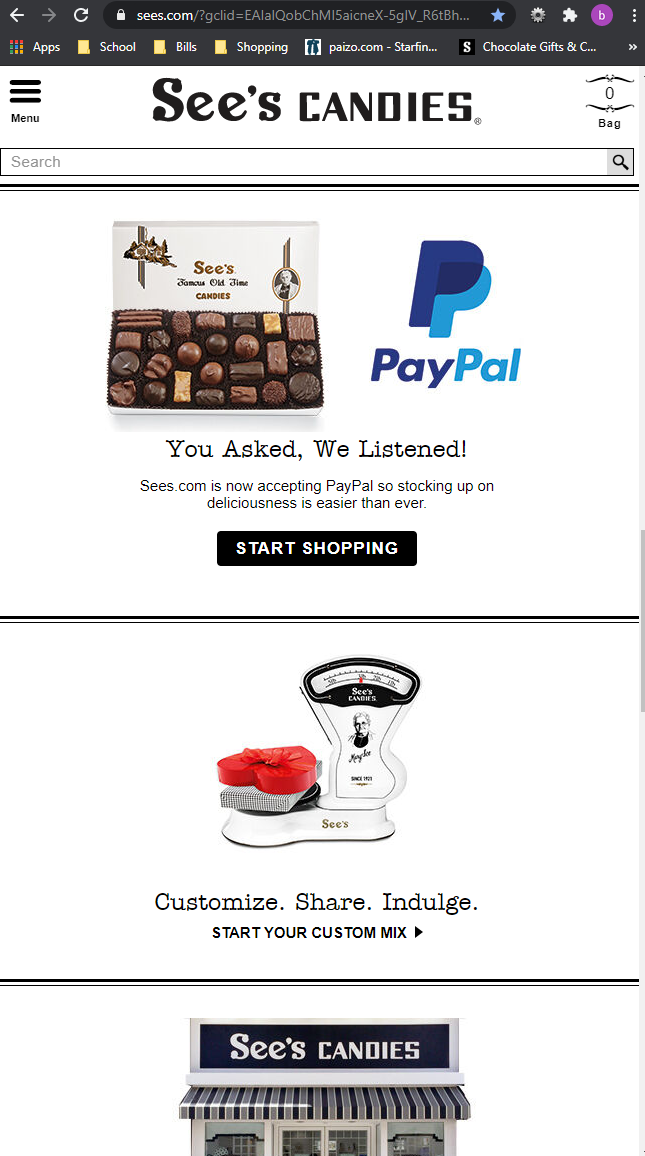
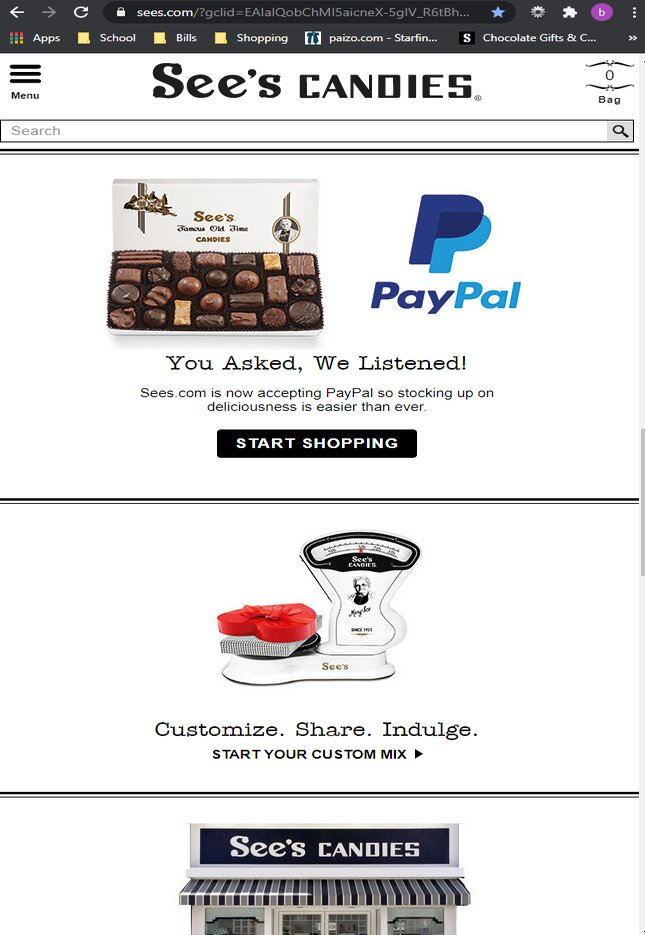
fixed scaling issue and added media query

diff --git a/Lesson-2/css/design-principle-stylesheet.css b/Lesson-2/css/design-principle-stylesheet.css
@@ -6,8 +6,7 @@ body {
 main {
     display: grid;
     grid-template-columns: 1fr 1fr 1fr;
-    grid-gap: 2.25em;
-    padding-bottom: 50px;
+    grid-gap: 15px;
     max-width: 1440px;
     margin: 0 auto;
     padding: 0 15px;
@@ -38,7 +37,7 @@ h2 {
     text-align: center;
 }
 
-.main-cont-1 {
+.main-cont-1, .main-cont-2, .main-cont-3 {
     /*grid-column: 1;
     grid-row: 2/10;*/
     border: 5px solid #0c2f5c;
@@ -46,23 +45,7 @@ h2 {
     background-color: white;
 }
 
-.main-cont-2 {
-    /*grid-column: 2;
-    grid-row: 2/10;*/
-    border: 5px solid #0c2f5c;
-    /*border-radius: 10px;*/
-    background-color: white;
-}
-
-.main-cont-3 {
-    /*grid-column: 3;
-    grid-row: 2/10;*/
-    border: 5px solid #0c2f5c;
-    /*border-radius: 10px;*/
-    background-color: white;
-}
-
-.cont-1-para-1, .cont-3-para-1 {
+.cont-1-para-1, .cont-3-para-1, .cont-2-para-1 {
     text-align: center;
     font-size: 20px;
     font-family: 'Merriweather', serif;
@@ -74,17 +57,6 @@ h2 {
     padding-top: 15px;
 }
 
-.cont-2-para-1 {
-    text-align: center;
-    font-size: 20px;
-    font-family: 'Merriweather', serif;
-    border-bottom:  10px double #EEE;
-    background-color: #0c2f5c;
-    color: white;
-    margin: 0px;
-    padding: 5px;
-}
-
 .cont-1-para-2, .cont-2-para-2, .cont-3-para-2 {
     text-align: left;
     font-size: 14px;
@@ -92,6 +64,7 @@ h2 {
     color: black;
     padding: 5px;
     margin: none;
+    border-top:5px solid #0c2f5c;
 }
 
 ul {
@@ -117,22 +90,14 @@ li a:link, li a:visited {
 li a:hover {
     color: #EEE;
 }
+  /*****    Redo the pictures at the exact some size. *****/
+  
+.cont-1-img, .cont-2-img, .cont-3-img {
+    display: block;
+    margin: auto;
+    width: 75%;
+}
 
-.cont-1-img, .cont-3-img {
-    height: 500px;
-    width: 300px;
-    padding-left: 10px;
-    padding-right: 10px;
-    padding-bottom: 5px;
-    border-bottom: 5px solid #0c2f5c;
-}
-.cont-2-img {
-    height: 466px;
-    padding-left: 10px;
-    padding-right: 10px;
-    padding-bottom:40px;
-    border-bottom: 5px solid #0c2f5c;
-}
 
 footer a, footer a:link, footer a:visited, footer a:hover, footer a:active, footer a:focus {
     color: white;
@@ -151,17 +116,17 @@ footer {
 
 footer p.legal {
     margin-bottom: 9px;
-    font-size: .9em;
+    font-size: 14px;
 }
 
 footer p.updatehistory {
     color: orange;
-    font-size: .8em;
-    margin-top: 0;
+    font-size: 12px;
+    margin-top: 0px;
 }
 
 
-@media only screen and (max-width: 32.5em) {
+@media only screen and (max-width: 1025px) {
 
     h1 {
         font-size: 32px;
@@ -178,7 +143,7 @@ footer p.updatehistory {
     }
 
     header, footer {
-        border-radius: 0;
+        border-radius: 0px;
     }
 
 }

diff --git a/Lesson-2/design-principles.html b/Lesson-2/design-principles.html
@@ -28,7 +28,6 @@
                         <li class='cont-1-link'>
                             <a href='https://store.steampowered.com/' target='_blank'>https://www.store.steampowered.com</a>
                         </li>
-                        <!--<li>https://www.store.steampowered.com</li>-->
                     </ul>
                     <img class='cont-1-img' src='images/steamexample.jpg' alt='Steam-example'>
                     <p class='cont-1-para-2'>
